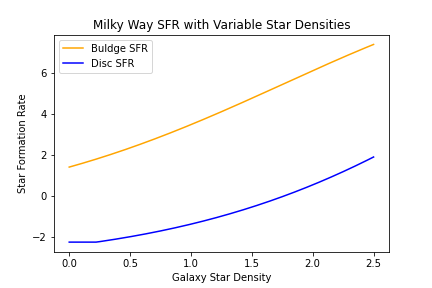
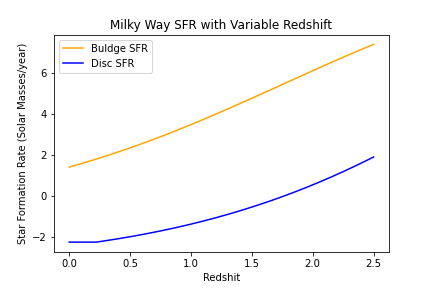
typo fixing

Changed region(s): [[0.2106, 0.0625, 0.8125, 0.125], [0.0301, 0.1562, 0.0602, 0.8438], [0.3912, 0.9375, 0.6319, 1.0]]

diff --git a/Interpolation Code/SFR.py b/Interpolation Code/SFR.py
@@ -11,7 +11,6 @@ Created on Mon Sep 26 21:20:56 2022
 import matplotlib.pyplot as plt
 
 def findSFR(z, a, b, c, d):
-    print(z)
     first = a * (z**2) + b*z + c
     if first < 0:
         first = 0
@@ -21,13 +20,13 @@ def findSFR(z, a, b, c, d):
 
 BuldgeMass = []
 BuldgeZ = []
-for i in range(251):    
+for i in range(2501):    
     BuldgeMass.append(findSFR(i/100, -0.0406, 0.331, 0.338, 0.771))
     BuldgeZ.append(i/100)
     
 DiscMass = []
 DiscZ = []
-for i in range(251):    
+for i in range(2501):    
     DiscMass.append(findSFR(i/100, -0.0262, 0.384, -0.0842, 3.254))
     DiscZ.append(i/100)
 
@@ -35,9 +34,9 @@ plt.show()
 plt.plot(BuldgeZ, BuldgeMass, "orange", label = "Buldge SFR")
 plt.plot(DiscZ, DiscMass, "blue", label = "Disc SFR")
 plt.legend()
-plt.ylabel("Star Formation Rate")
-plt.xlabel("Galaxy Star Density")
-plt.title("Milky Way SFR with Variable Star Densities")
+plt.ylabel("Star Formation Rate (Solar Masses/year)")
+plt.xlabel("Redshit")
+plt.title("Milky Way SFR with Variable Redshift")
 
 #plt.savefig("../Plots/" + "MilkyWay_SFR")
 
